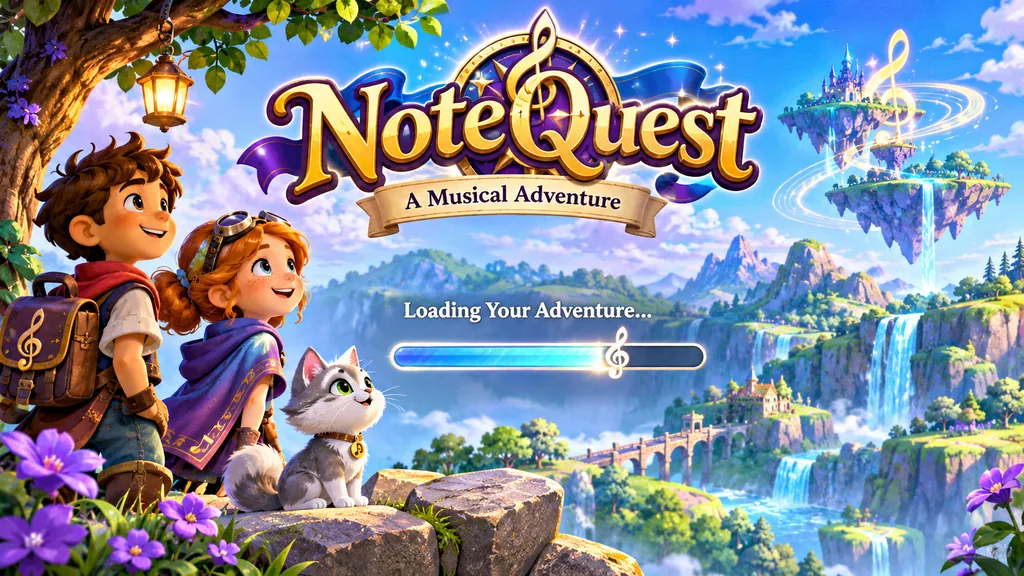
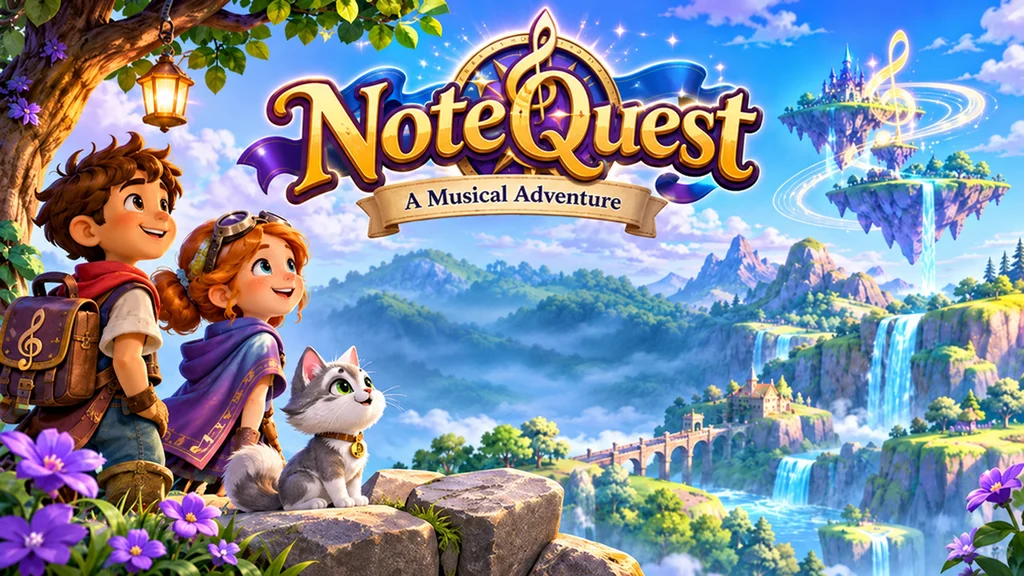
Show Tap to Play without a title rectangle [no pages]

Changed region(s): [[0.0, 0.0, 1.0, 1.0], [0.0, 0.9688, 0.0625, 1.0], [0.6562, 0.0938, 0.6875, 0.125]]

diff --git a/assets/nq-launch-menu.js b/assets/nq-launch-menu.js
@@ -1,5 +1,5 @@
-/* Title vista. The painted picture already includes the wordmark, the subtitle,
-   and a loading line. Those are not drawn again while the picture is showing.
+/* Title vista. The painted picture includes the wordmark and subtitle.
+   Loading and Tap to Play are rendered separately.
    Copies: assets/nq-opening-640.webp, nq-opening-1024.webp, nq-opening-1672.webp
    from coordination/design/reference/notequest-opening-screen-concept-v1.png. */
 (function(){'use strict';
@@ -17,7 +17,7 @@ function mount(){
  screen.tabIndex=-1;
  screen.innerHTML=''
   +'<div class="nq-launch-fade">'
-  +'<div class="nq-launch-vista" hidden><img class="nq-launch-art" alt=""><div class="nq-launch-cover" aria-hidden="true"></div></div>'
+  +'<div class="nq-launch-vista" hidden><img class="nq-launch-art" alt=""></div>'
   +'<div class="nq-launch-stack">'
   +'<div class="nq-launch-brand"><img class="nq-launch-logo" src="assets/notequest-logo-icon.svg" alt="" width="180" height="180"><h1 class="nq-launch-title">NoteQuest</h1><p class="nq-launch-subtitle">A Musical Adventure</p></div>'
   +'<div class="nq-launch-dock"><p class="nq-launch-loading" id="nq-launch-loading">Loading Your Adventure…</p>'
@@ -50,13 +50,11 @@ function mount(){
   vista.style.width=r.width+'px';
   vista.style.height=r.height+'px';
   if(!screen.classList.contains('nq-launch-has-art')){
-   screen.classList.remove('nq-launch-below');
    stack.style.left='';stack.style.top='';stack.style.width='';
    return;
   }
   var roomBelow=window.innerHeight-(r.top+r.height);
   var below=roomBelow>150;
-  screen.classList.toggle('nq-launch-below', below);
   var dockW=below?Math.min(460,window.innerWidth-32):Math.max(240,Math.min(r.width*0.5,640));
   stack.style.width=dockW+'px';
   var halfW=dockW/2,halfH=(stack.offsetHeight||96)/2;

diff --git a/assets/nq-launch-menu.css b/assets/nq-launch-menu.css
@@ -20,10 +20,9 @@
 .nq-launch-has-art .nq-launch-fade{padding:0}
 .nq-launch-has-art .nq-launch-brand{position:absolute;width:1px;height:1px;padding:0;margin:-1px;overflow:hidden;clip:rect(0,0,0,0);white-space:nowrap;border:0}
 .nq-launch-has-art .nq-launch-stack{position:absolute;transform:translate(-50%,-50%);width:auto;gap:0;margin:0}
-.nq-launch-has-art .nq-launch-dock{padding:22px 18px 14px;border-radius:28px;background:rgba(12,36,78,.92);box-shadow:0 12px 28px #07142866}
-.nq-launch-cover{display:none}
-.nq-launch-has-art .nq-launch-cover{display:block;position:absolute;left:22%;top:48%;width:56%;height:19%;border-radius:22px;background:#10264e}
-.nq-launch-below .nq-launch-cover{border-radius:16px;background:linear-gradient(#b7d4f6,#7eb0e6)}
+.nq-launch-has-art .nq-launch-loading{color:#fff;text-shadow:0 1px 3px #051827,0 2px 7px #051827}
+.nq-launch-has-art .nq-launch-meter{width:min(80%,260px);height:12px;background:#132d59c9}
+.nq-launch-has-art .nq-launch-start{width:auto}
 /* Kevin-approved cinematic handoff, 4.0s total.
    0–1.0s: establish the children and distant city.
    1.0–3.2s: gently move into their point of view.

diff --git a/tests/browser/opening_screen_test.py b/tests/browser/opening_screen_test.py
@@ -24,6 +24,18 @@ async def hold_picture(page):
     await page.route('**/*', handle)
     return started, release
 
+async def clean_title(page, screenshot=None):
+    dock = page.locator('.nq-launch-dock')
+    background, shadow = await dock.evaluate(
+        'el => [getComputedStyle(el).backgroundColor, getComputedStyle(el).boxShadow]')
+    assert background == 'rgba(0, 0, 0, 0)' and shadow == 'none', (background, shadow)
+    assert await dock.locator(':scope > :visible').count() == 1
+    assert await dock.get_by_role('button', name='Tap to Play').is_visible()
+    assert await page.locator('.nq-launch-cover').count() == 0
+    if screenshot and (directory := os.environ.get("NQ_SCREENSHOTS") or os.environ.get("NQ_WWW")):
+        os.makedirs(directory, exist_ok=True)
+        await page.screenshot(path=os.path.join(directory, screenshot))
+
 async def run():
  async with async_playwright() as pw:
   browser=await pw.chromium.launch()
@@ -50,6 +62,7 @@ async def run():
    await play.wait_for()
    assert await page.locator('.nq-launch-meter').count()==0 or not await page.locator('.nq-launch-meter').is_visible()
    assert 'nq-launch-has-art' in await page.locator('.nq-launch').get_attribute('class')
+   await clean_title(page, 'title-phone.png')
    clipped=await page.evaluate("""()=>{const s=getComputedStyle(document.querySelector('.nq-launch-brand'));return s.position==='absolute'&&parseFloat(s.height)<=2}""")
    assert clipped
    box=await play.bounding_box()
@@ -97,6 +110,8 @@ async def run():
     await page.goto(BASE+'index.html')
     play=page.get_by_role('button', name='Tap to Play')
     await play.wait_for()
+    capture = {844: 'title-landscape.png', 820: 'title-tablet.png', 1280: 'title-desktop.png'}
+    await clean_title(page, capture[width])
     box=await play.bounding_box()
     assert box['height']>=64 and box['width']>=160, (width, box)
     assert 0<=box['x'] and box['x']+box['width']<=width+1
@@ -160,19 +175,16 @@ async def run():
    assert not errors, errors
    await ctx.close()
 
-   # On a large desktop the cover stays a fraction of the picture, wider than the button.
+   # On a large desktop the standalone button stays inside the title artwork.
    ctx=await browser.new_context(viewport={'width':1920,'height':1080}, device_scale_factor=1)
    page=await ctx.new_page()
    await page.goto(BASE+'index.html')
    await page.get_by_role('button', name='Tap to Play').wait_for()
-   cover=await page.evaluate("""()=>{
-     const c=document.querySelector('.nq-launch-cover');
-     const v=document.querySelector('.nq-launch-vista');
-     const cr=c.getBoundingClientRect(), vr=v.getBoundingClientRect();
-     return {display:getComputedStyle(c).display, w:cr.width, vw:vr.width, h:cr.height, vh:vr.height};
-   }""")
-   assert cover['display']=='block', cover
-   assert cover['w']>cover['vw']*0.45 and cover['h']>cover['vh']*0.12, cover
+   await clean_title(page, 'title-large-desktop.png')
+   button_bounds = await page.locator('.nq-launch-start').bounding_box()
+   art_bounds = await page.locator('.nq-launch-vista').bounding_box()
+   assert art_bounds['x'] <= button_bounds['x']
+   assert button_bounds['x'] + button_bounds['width'] <= art_bounds['x'] + art_bounds['width']
    assert await page.evaluate('document.documentElement.scrollWidth<=window.innerWidth+1')
    await ctx.close()
 

diff --git a/docs/development/2026-11-24-clear-title.md b/docs/development/2026-11-24-clear-title.md
@@ -1,0 +1,7 @@
+# Clear title artwork and standalone Tap to Play
+
+Kevin requested the removal of the rectangle behind Tap to Play. The title art also contained its own loading copy and meter. Leaving those visible would require a cover even after making the dock transparent. The new three-size derivatives use a local retouch of the old painted loading area. Artwork outside that small composite is sourced from the approved original. The four-second title transition and Skip control are preserved.
+
+Changed `assets/nq-launch-menu.css`, `assets/nq-launch-menu.js` and the three existing WebP files. The browser test asserts a transparent, shadow-free dock with exactly one visible ready control and no cover. It also keeps the stalled and failed art, keyboard, touch, reduced-motion and camera tests. The artifact step collects phone, landscape, tablet, desktop and large desktop screenshots.
+
+Local Debian 13, Python 3.12.14 and Chromium 153, with the installed Chromium path and a fresh browser for each context in this runtime. Ran `python tests/browser/opening_screen_test.py` through that launcher shim. Exit 0, all scenarios passed. Visually checked phone and desktop screenshots. Physical tablet and Android verification and independent exact-head review remain pending.
